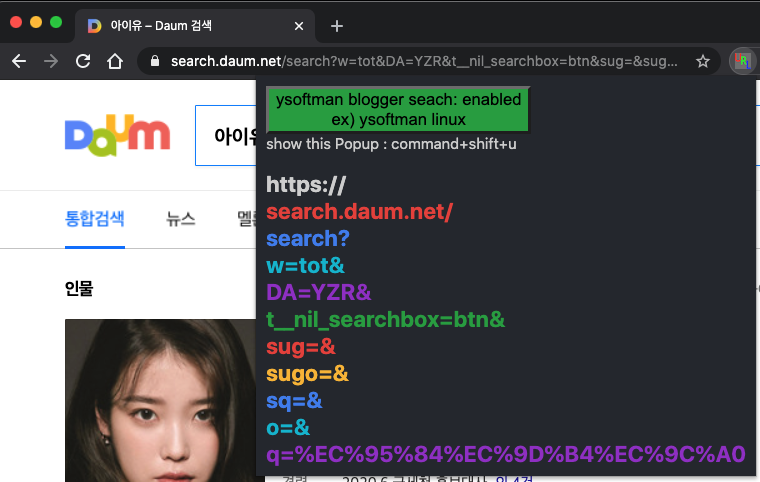
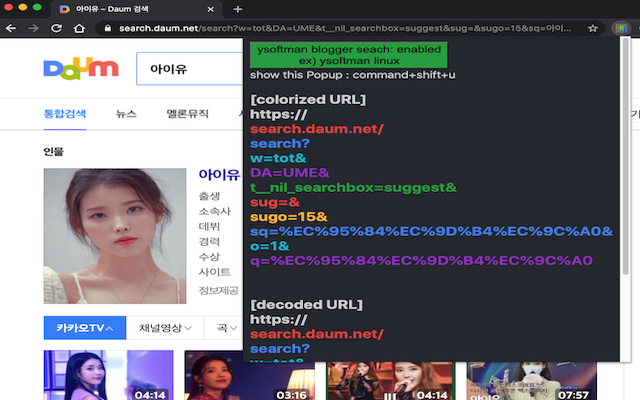
add decoded url

diff --git a/popup.js b/popup.js
@@ -76,7 +76,8 @@ function makeColorfulURL(parentele, url) {
     backpage.console.log("path:", path);
     backpage.console.log("query:", query);
     backpage.console.log("params:", params);
-    parentele.innerHTML += scheme[0] + "//";
+    parentele.innerHTML = "[colorized URL]<br>";
+    colorizeURL = scheme[0] + "//";
     eleCnt = 0;
     for (let i = 0; i < path.length; i++) {
         ++eleCnt;
@@ -89,14 +90,14 @@ function makeColorfulURL(parentele, url) {
         } else {
             ele += "/</div>";
         }
-        parentele.innerHTML += ele;
+        colorizeURL += ele;
         backpage.console.log("ele[", i, "]: ", ele);
     }
     if (query.length == 2) {
         ++eleCnt;
         let ele = "<div style=color:" + colorList[eleCnt % colorList.length] + "\>" + query[0];
         ele += "?</div>";
-        parentele.innerHTML += ele;
+        colorizeURL += ele;
         backpage.console.log("ele[", 0, "]: ", ele);
     }
     for (let i = 0; i < params.length; i++) {
@@ -107,7 +108,12 @@ function makeColorfulURL(parentele, url) {
         } else {
             ele += "&</div>";
         }
-        parentele.innerHTML += ele;
+        colorizeURL += ele;
         backpage.console.log("ele[", i, "]: ", ele);
     }
+    let decodedURL = "<br><br>[decoded URL]<br>";
+    decodedURL += colorizeURL;
+
+    parentele.innerHTML += colorizeURL;
+    parentele.innerHTML += decodeURI(decodedURL);
 }

diff --git a/README.md b/README.md
@@ -1,11 +1,8 @@
 # Colorful URL (chrome extension)
 
-## 설치
+## 설치/디버깅
 
 - chrome://extensions/ -> 개발자 모드 활성화 -> 압축해제된 확장 프로그램을 로드합니다.(LOAD UNPACKED) -> 프로젝트 디렉토리 선택
-
-## 디버깅
-
 - 코드 수정 후 chrome://extensions/ 에서 '업데이트' 하면 바로 적용된다.
 - 앱의 '백그라운드 페이지' 에서 콘솔 로그를 확인한다.
 
@@ -14,6 +11,8 @@
 - 현재 URL을 컬러로 구분해 보여준다.
 
   ![colorfulURL-screenshot1](./colorfulURL-screenshot1.png)
+
+  - chrome web store 캡쳐화면에 사용 (1280x800 또는 640x400 JPEG 또는 24비트 PNG(알파 비포함))
 
 - 주소표시줄(omni box)에서 ysoftman + 공백 + 키워드를 쓰면 ysoftman 블로그에서 검색한다.
 
@@ -25,10 +24,10 @@
 
 - zip 압축
 
- ```bash
- cd ~/workspace/
- zip -r colorfulURL.zip colorfulURL -x "*.git*"
- ```
+```bash
+cd ~/workspace/
+zip -r colorfulURL.zip colorfulURL -x "*.git*"
+```
 
 - <https://chrome.google.com/webstore/devconsole/> 에서 새항목 -> colorfulURL.zip 추가
 
